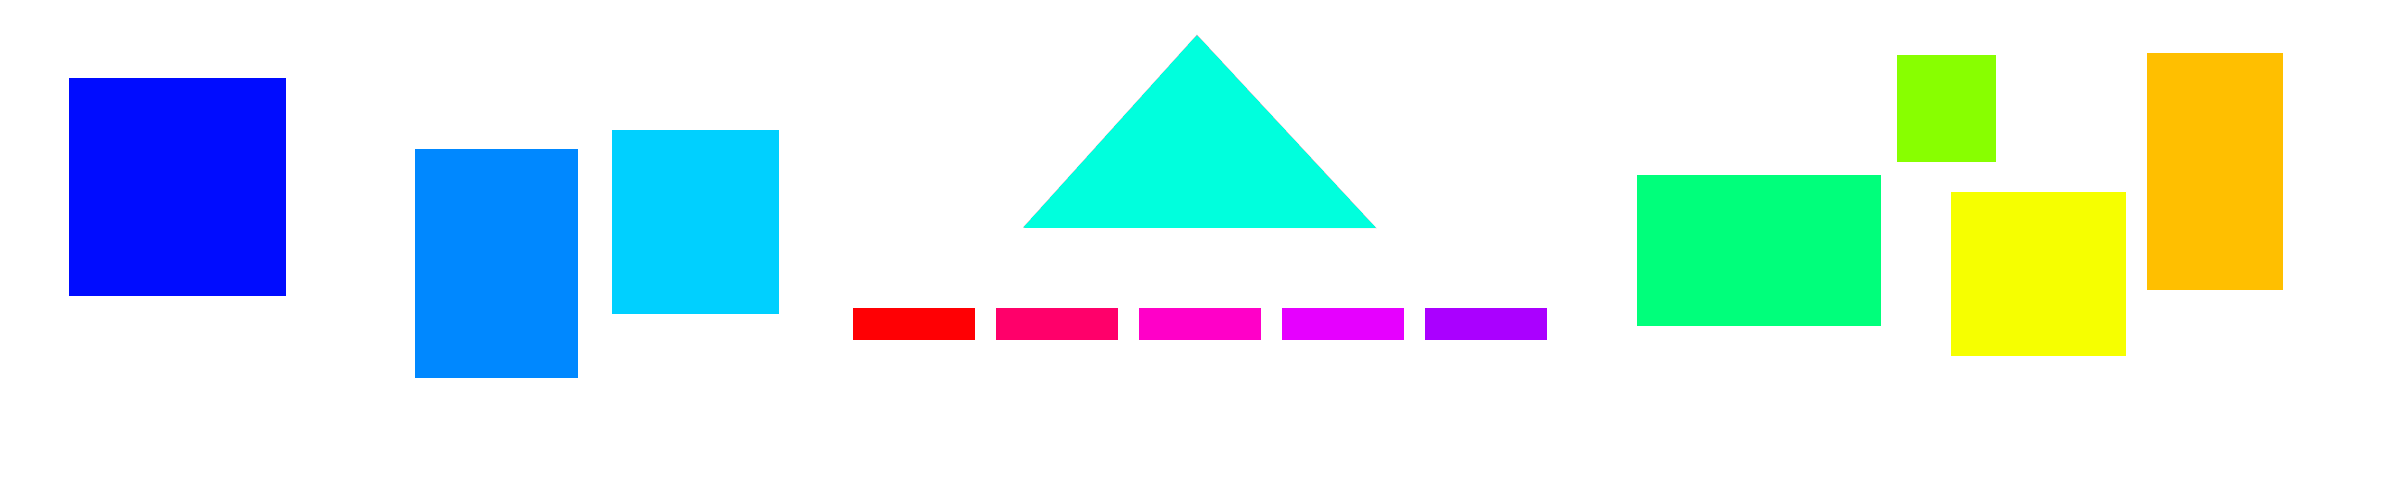
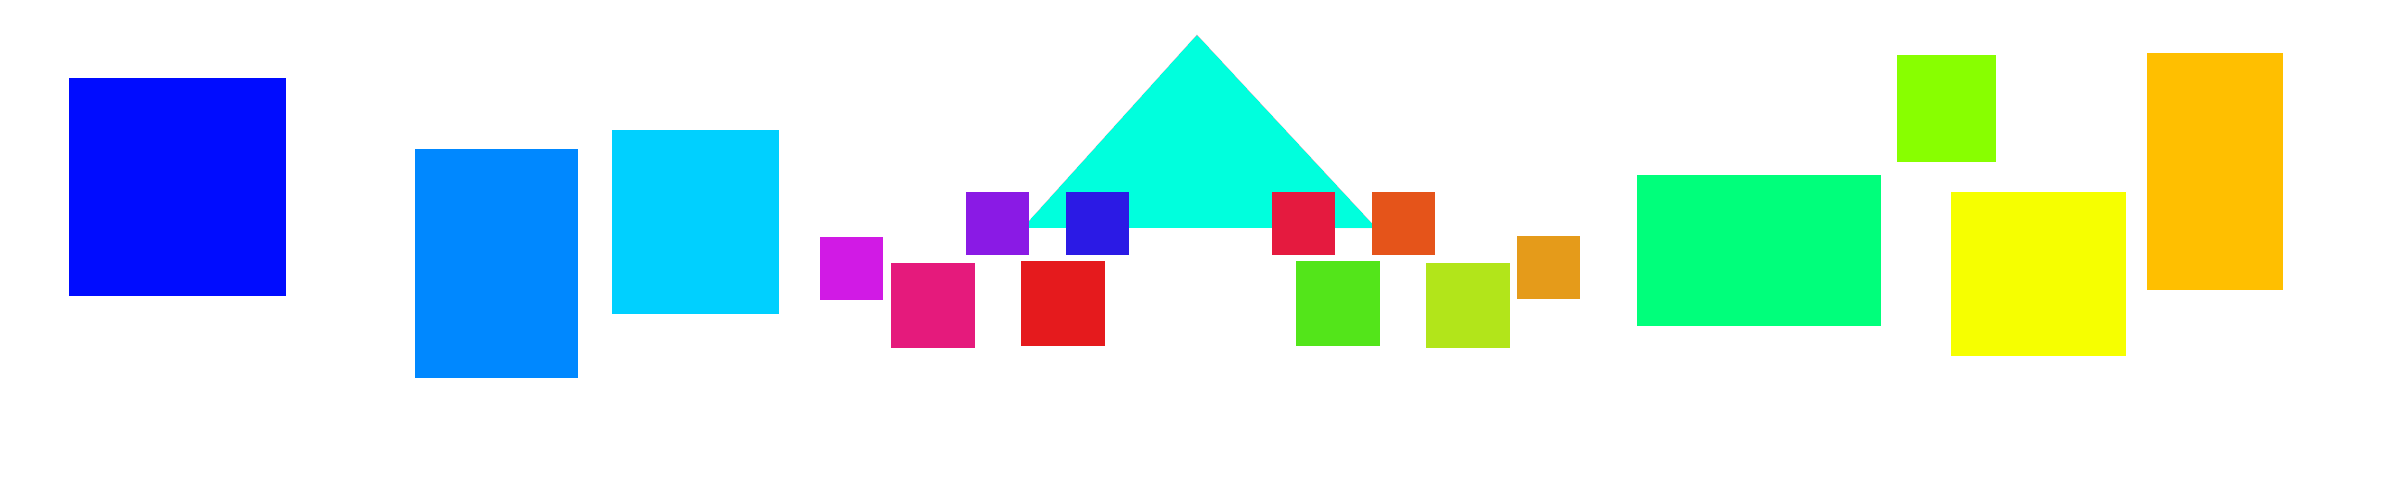
home: add team images wip

Changed region(s): [[0.3438, 0.36, 0.6562, 0.72]]

diff --git a/pages/home/index.js b/pages/home/index.js
@@ -1,3 +1,6 @@
+import { getCharacters } from '../../user/getCharacters.js';
+import { getTeams } from '../../user/teams.js';
+import { characterImageGetter } from '../../visuals/assets.character.js';
 import { loadSounds } from '../../visuals/assets.js';
 import { canvasHorizontal, canvasVertical } from '../../visuals/canvas.js';
 import { statsRequest } from '../../visuals/stats/stats.js';
@@ -31,11 +34,26 @@ const clickColorMap = {
 	'#88ff00': '/pages/arena/index.html',
 	'#f6ff00': '/pages/pvp/index.html',
 	'#ffbf00': '/pages/tower/index.html',
-	'#ff0004': '/pages/team/index.html?slot=1',
-	'#ff006a': '/pages/team/index.html?slot=2',
-	'#ff00c8': '/pages/team/index.html?slot=3',
-	'#e600ff': '/pages/team/index.html?slot=4',
-	'#aa00ff': '/pages/team/index.html?slot=5'
+
+	'#e51a1d': '/pages/team/index.html?sub=a&slot=1',
+	'#e51a7c': '/pages/team/index.html?sub=a&slot=2',
+	'#d11ae5': '/pages/team/index.html?sub=a&slot=3',
+	'#8a1ae5': '/pages/team/index.html?sub=a&slot=4',
+	'#2b1ae5': '/pages/team/index.html?sub=a&slot=5',
+
+	'#53e51a': '/pages/team/index.html?sub=b&slot=1',
+	'#b2e51a': '/pages/team/index.html?sub=b&slot=2',
+	'#e59b1a': '/pages/team/index.html?sub=b&slot=3',
+	'#e5541a': '/pages/team/index.html?sub=b&slot=4',
+	'#e51a3f': '/pages/team/index.html?sub=b&slot=5'
+};
+
+const loadImage = async (url) => {
+	let img = new Image();
+	return new Promise((r) => {
+		img.onload = () => r(img);
+		img.src = url;
+	});
 };
 
 const drawControls = () => {
@@ -108,6 +126,96 @@ const drawControls = () => {
 	document.body.insertAdjacentElement('afterbegin', container);
 };
 
+const getRaidTeam = async () => {
+	const characters = await getCharacters();
+	const teams = await getTeams();
+	const getCharImage = await characterImageGetter();
+	const raidTeam = teams['Team 1'];
+	for (const [k, v] of Object.entries(raidTeam.a)) {
+		raidTeam.a[k] = characters.find((c) => c.id === v.id);
+		raidTeam.a[k].image = await loadImage(getCharImage(raidTeam.a[k]));
+	}
+	for (const [k, v] of Object.entries(raidTeam.b)) {
+		raidTeam.b[k] = characters.find((c) => c.id === v.id);
+		raidTeam.b[k].image = await loadImage(getCharImage(raidTeam.b[k]));
+	}
+	return raidTeam;
+};
+
+const drawTeam = ({ bg, raidTeam }) => {
+	bg.ctx.drawImage(
+		raidTeam.a[0].image,
+		bg.canvas.width / 2 - 37.5 - 127,
+		bg.canvas.height / 2 - 50 + 70,
+		75 * 0.75,
+		100 * 0.75
+	);
+	bg.ctx.drawImage(
+		raidTeam.a[1].image,
+		bg.canvas.width / 2 - 37.5 - 127 - 130,
+		bg.canvas.height / 2 - 50 + 70,
+		75 * 0.75,
+		100 * 0.75
+	);
+	bg.ctx.drawImage(
+		raidTeam.a[2].image,
+		bg.canvas.width / 2 - 37.5 - 127 - 212,
+		bg.canvas.height / 2 - 26,
+		75 * 0.75,
+		100 * 0.75
+	);
+	bg.ctx.drawImage(
+		raidTeam.a[3].image,
+		bg.canvas.width / 2 - 37.5 - 137 - 55,
+		bg.canvas.height / 2 - 70,
+		75 * 0.75,
+		100 * 0.75
+	);
+	bg.ctx.drawImage(
+		raidTeam.a[4].image,
+		bg.canvas.width / 2 - 37.5 - 92,
+		bg.canvas.height / 2 - 70,
+		75 * 0.75,
+		100 * 0.75
+	);
+
+	bg.ctx.drawImage(
+		raidTeam.b[0].image,
+		bg.canvas.width / 2 - 37.5 + 147,
+		bg.canvas.height / 2 - 50 + 70,
+		75 * 0.75,
+		100 * 0.75
+	);
+	bg.ctx.drawImage(
+		raidTeam.b[1].image,
+		bg.canvas.width / 2 - 37.5 + 147 + 130,
+		bg.canvas.height / 2 - 50 + 70,
+		75 * 0.75,
+		100 * 0.75
+	);
+	bg.ctx.drawImage(
+		raidTeam.b[2].image,
+		bg.canvas.width / 2 - 37.5 + 127 + 230,
+		bg.canvas.height / 2 - 26,
+		75 * 0.75,
+		100 * 0.75
+	);
+	bg.ctx.drawImage(
+		raidTeam.b[3].image,
+		bg.canvas.width / 2 - 37.5 + 137 + 75,
+		bg.canvas.height / 2 - 70,
+		75 * 0.75,
+		100 * 0.75
+	);
+	bg.ctx.drawImage(
+		raidTeam.b[4].image,
+		bg.canvas.width / 2 - 37.5 + 112,
+		bg.canvas.height / 2 - 70,
+		75 * 0.75,
+		100 * 0.75
+	);
+};
+
 const setup = async () => {
 	document.title += `: ${pageTitle}`;
 	window.parent.postMessage({
@@ -118,21 +226,29 @@ const setup = async () => {
 
 	drawControls();
 
+	const raidTeam = await getRaidTeam();
+
 	const bg = await canvasHorizontal({
 		parent: document.body,
-		image: '/pages/home/background.jpg',
+		image: '/pages/home/background.png',
 		offsetX: 1200 - document.body.clientWidth / 2,
 		height: 500,
 		clickMap: '/pages/home/background_clicks.png',
 		clickHandle: (color) => {
 			const which = clickColorMap[color];
-			if (!which) return;
+			if (!which) {
+				console.log(color);
+				return;
+			}
 			window.parent.postMessage({
 				_: 'navigate',
 				src: which
 			});
 		}
+		// onDraw: () => {}
 	});
+
+	drawTeam({ bg, raidTeam });
 
 	window.parent.postMessage({ _: 'loaded' });
 };

diff --git a/pages/team/index.html b/pages/team/index.html
@@ -39,7 +39,7 @@
 		<div style="
 			margin-bottom: 20px;
 		">
-			team ${params.slot}
+			team ${params.sub.toUpperCase()}:${params.slot}
 		</div>
 		`;
 		window.parent.postMessage({
@@ -51,7 +51,7 @@
 		});
 		window.parent.postMessage({
 			_: 'title',
-			title: 'Team ' + params.slot,
+			title: `Team ${params.sub.toUpperCase()}:${params.slot}`,
 			visibility: 'visible'
 		});
 		window.parent.postMessage({ _: 'loaded' });
